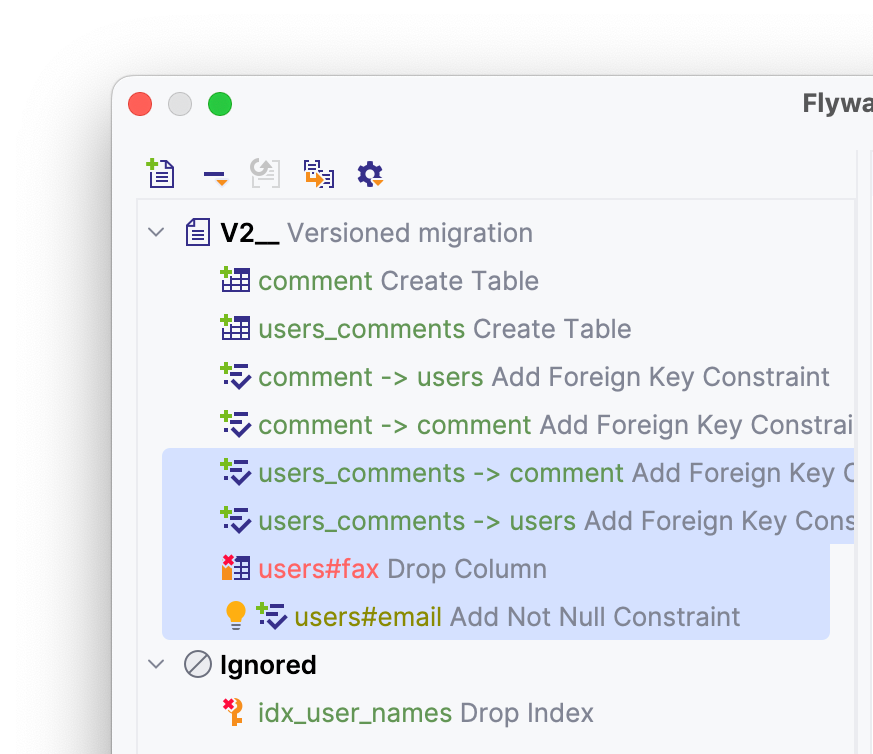
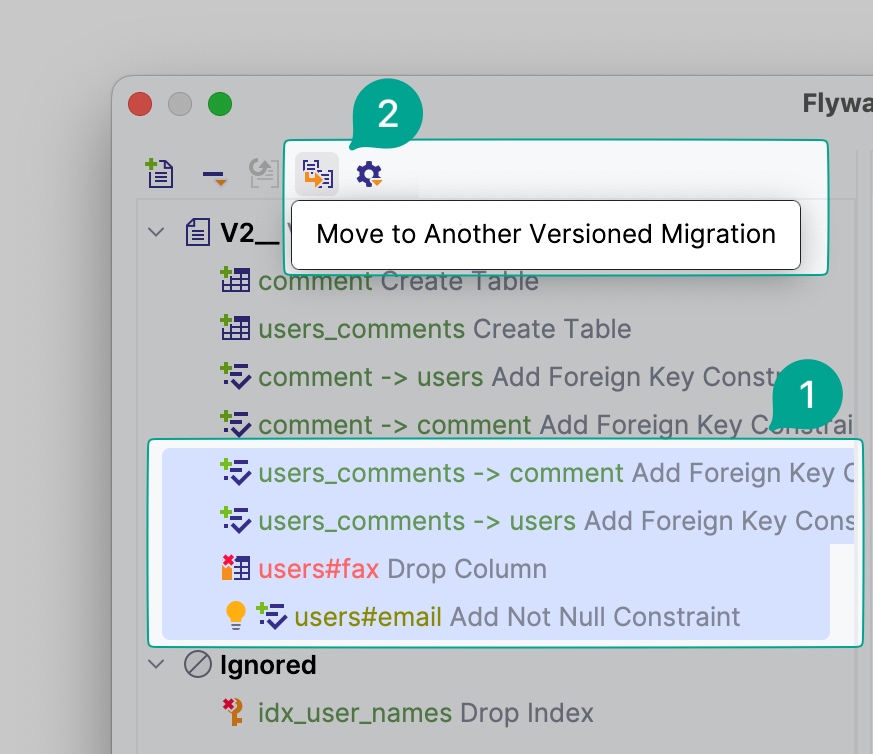
fix scenario text and screenshots

diff --git a/flyway-and-spring-boot/text-based-guide/flyway-and-spring-boot.md b/flyway-and-spring-boot/text-based-guide/flyway-and-spring-boot.md
@@ -247,10 +247,9 @@ flyway {
 Разрабатывая JPA модель, мы решили две бизнес задачи: изменение сущности `User` и создание сущности `Comment`. Нам бы не хотелось складывать скрипты, относящиеся к разным бизнес задачам, в один файл. Amplicode позволяет разнести скрипты в несколько файлов миграции, не покидая текущего окна.
 
 Для этого необходимо:
-* Выбрать скрипты, относящиеся к изменению пользователя
+* Выбрать скрипты, относящиеся к изменению пользователя (1)
+* В верхней панели выбрать действие переноса скриптов в новый файл миграции (2):
   ![](images/select-scripts-user.png)
-* В верхней панели выбрать действие переноса скриптов в новый файл миграции: (![](images/move-scripts.png) )
-
 * Задать название каждому из файлов
 
 ![](images/changelog-names.png)
